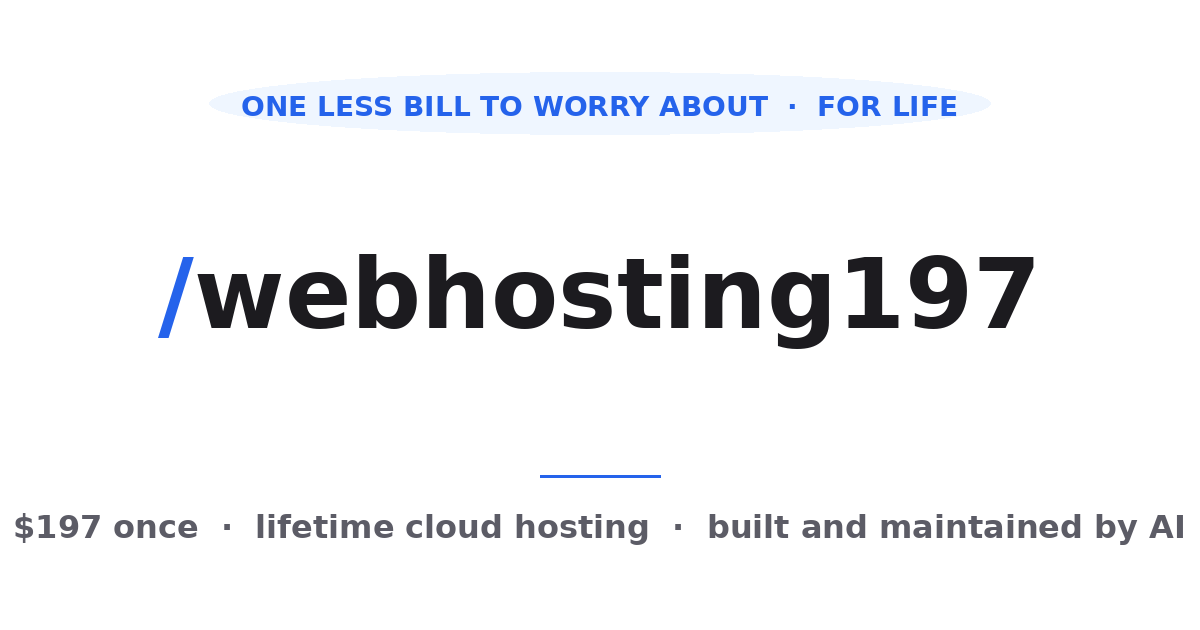
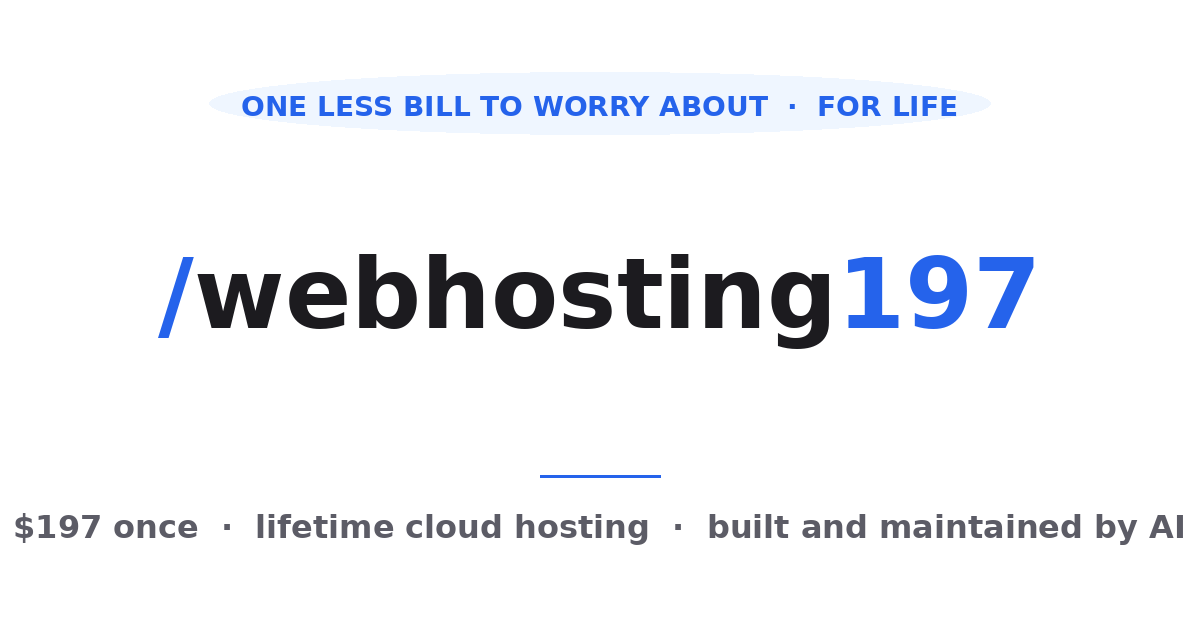
v43: regenerate /img/og.png with dual-blue brand mark to match v40+ live brand. cache-bust og:image and Schema image URLs with ?v=43 query so Facebook/LinkedIn/Twitter/Google re-fetch the new card on next scrape. content unchanged otherwise: same eyebrow pill, same /webhosting197 mark layout, same f

Changed region(s): [[0.7092, 0.3921, 0.8633, 0.5429]]

diff --git a/index.html b/index.html
@@ -13,7 +13,7 @@
 <meta property="og:description" content="one less bill to worry about. for life. Lifetime cloud hosting, hand-picked customers only.">
 <meta property="og:type" content="website">
 <meta property="og:url" content="https://webhosting197.com/">
-<meta property="og:image" content="https://webhosting197.com/img/og.png">
+<meta property="og:image" content="https://webhosting197.com/img/og.png?v=43">
 <meta property="og:image:width" content="1200">
 <meta property="og:image:height" content="630">
 <meta property="og:image:type" content="image/png">
@@ -21,7 +21,7 @@
 <meta name="twitter:card" content="summary_large_image">
 <meta name="twitter:title" content="webhosting197 - one less bill to worry about. for life.">
 <meta name="twitter:description" content="$197 once. Lifetime cloud hosting. Built and maintained by AI. Hand-picked customers only.">
-<meta name="twitter:image" content="https://webhosting197.com/img/og.png">
+<meta name="twitter:image" content="https://webhosting197.com/img/og.png?v=43">
 <script type="application/ld+json">
 {
   "@context": "https://schema.org",
@@ -30,7 +30,7 @@
   "alternateName": "webhosting197.com",
   "url": "https://webhosting197.com",
   "logo": "https://webhosting197.com/favicon.svg",
-  "image": "https://webhosting197.com/img/og.png",
+  "image": "https://webhosting197.com/img/og.png?v=43",
   "description": "Lifetime cloud web hosting. $197 once. Built and maintained by AI for the life of your business. Hand-picked customers only.",
   "slogan": "one less bill to worry about. for life.",
   "founder": {
@@ -344,7 +344,7 @@ h1{font-size:38px;font-weight:700;letter-spacing:-.025em;line-height:1.15;color:
 
 <header class="topnav" id="topnav">
   <div class="topnav-inner">
-    <a href="/" class="brand"><span class="brand-slash">/</span><span class="brand-text">webhosting</span><span class="brand-num">197</span><span class="version">v42</span></a>
+    <a href="/" class="brand"><span class="brand-slash">/</span><span class="brand-text">webhosting</span><span class="brand-num">197</span><span class="version">v43</span></a>
     <div class="topnav-right">
       <a href="#pricing" class="topnav-link">Pricing</a>
       <a href="#how" class="topnav-link">How it works</a>